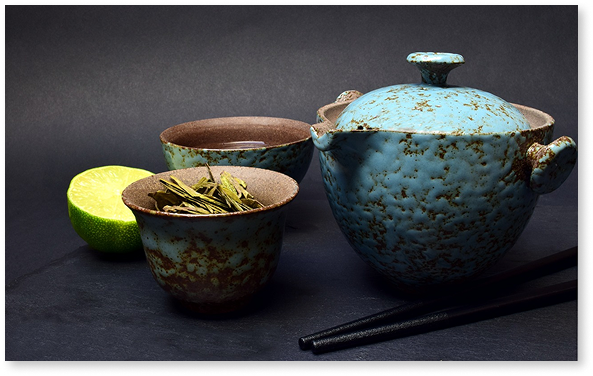
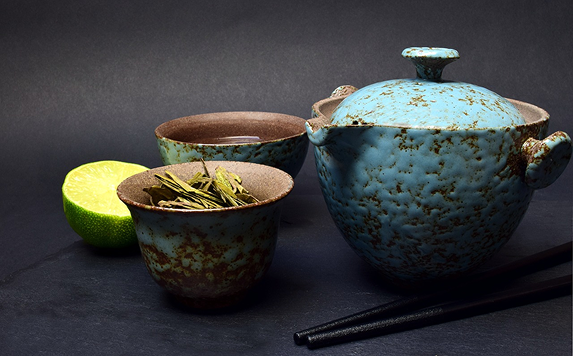
working on get in touch

Changed region(s): [[0.0, 0.0, 1.0, 1.0], [0.4747, 0.618, 0.5044, 0.6798]]

diff --git a/ceramic_soul/css/styles.css b/ceramic_soul/css/styles.css
@@ -13,7 +13,7 @@ a {
   color: initial;
 }
 
-button {
+button, .outlined-button {
   background: white;
   color: black;
   font-size: 20px;
@@ -38,9 +38,42 @@ button:active {
   border: 1px solid #00000088;
 }
 
+.oulined-button:hover{
+  color: var(--ceramic-color);
+  border-color: var(--ceramic-color);
+}
+
+
+label{
+  color: var(--dark-color);
+  font-size: calc(14rem/16);
+  font-weight: 400;
+}
+
+input[type="text"],input[type="email"], textarea{
+  border-radius: calc(2rem/16);
+  width: calc(300rem/16);
+  height: calc(48rem/16);
+  border: calc(1rem/16) solid var(--dark-color);
+  padding-bottom: .5rem;
+}
+
+textarea{
+  height: 8rem;
+}
+
+input:disabled{
+  border: none;
+}
+
+input:invalid{
+  border: calc(1rem/16) solid var(--error-color);
+}
+
+
 .container{
   margin: 0 auto;
-  max-width: 70rem;
+  max-width: 90rem;
   width: 100%;
 }
 
@@ -48,6 +81,7 @@ body {
   display: grid;
   grid-template-columns: 1fr;
   grid-template-rows: 1fr;
+  background-color: var(--bg-color);
 }
 
 /* #endregion */
@@ -257,7 +291,59 @@ main .create-or-buy span {
 
 /* #region Get in Touch */
 
-main .get-in-touch
+main .get-in-touch{
+  display: grid;
+  grid-template-rows: 1fr;
+  grid-template-columns: 1fr 1fr;
+  width: 100%;
+}
+
+main .get-in-touch h2{
+  grid-column: span 3;
+}
+
+main .get-in-touch>figure{
+  grid-column: 1/2;
+  grid-row: 2/3;
+  background: url(../src/images/tea.png) center/cover no-repeat;
+  height: 356px;
+  margin-right: 150px;
+}
+
+main .get-in-touch form{
+  grid-column: 2/3;
+  grid-row: 2/3;
+}
+
+main .get-in-touch .form-list{
+  display: flex;
+  flex-direction: column;
+  row-gap: 1.25rem;
+}
+
+main .form-list label{
+  display: block;
+  line-height: calc(28rem/16);
+}
+
+main .form-list .terms-label{
+  display: initial;
+}
+
+main .form-list .name-and-email{
+  display: flex;
+  flex-wrap: wrap;
+  column-gap: 3rem;
+  row-gap: 1.25rem;
+}
+
+main .form-list button{
+  padding: calc(12rem/16) calc(55rem/16);
+}
+
+main .form-list > figure{
+
+}
 
 /* #endregion */
 
@@ -334,24 +420,23 @@ footer {
     padding: calc(60rem/16) 2em;
   }
 
-  main .our-store,
-  main .our-workshop {
-    width: 100%;
-  }
 
 
   main .create-or-buy .our-workshop p {
     margin-right: 108px;
   }
 
+main .get-in-touch{
+  column-gap: 2.5rem;
+}
+
+main .get-in-touch figure{
+  width: 100%;
+}
   
   /* #endregion */
 
 }
-
-
-
-
 
 
 

diff --git a/ceramic_soul/index.html b/ceramic_soul/index.html
@@ -87,15 +87,34 @@
             method="get"
             name="get_in_touch_form"
           >
-            <label for="name"></label>
-            <input type="text" name="name" id="name" />
-            <label for="email"></label>
-            <input type="email" name="email" id="email" />
-            <label for="question"></label>
-            <textarea name="question" id="question"></textarea>
-            <input type="checkbox" name="terms" id="terms" />
-            <label for="terms">I agree with the <span>terms</span></label>
-            <button class="submit" type="submit">Send request</button>
+            <ul class="form-list">
+              <li class="name-and-email">
+                <div class="labeled-name">
+                  <label for="name">Name</label>
+                  <input type="text" name="name" id="name" required />
+                </div>
+                <div class="labeled-email">
+                  <label for="email">Email</label>
+                  <input type="email" name="email" id="email" required />
+                </div>
+              </li>
+              <li>
+                <label for="question">Your question</label>
+                <textarea name="question" id="question" required></textarea>
+              </li>
+              <li>
+                <input type="checkbox" name="terms" id="terms" required />
+                <label for="terms" class="terms-label"
+                  >I agree with the <a class="terms-link">terms</a></label
+                >
+              </li>
+              <li>
+                <button class="submit outlined-button" type="submit">
+                  Send request
+                </button>
+              </li>
+            </ul>
+            <figure></figure>
           </form>
         </section>
         <section class="checkout">

diff --git a/ceramic_soul/css/variables.css b/ceramic_soul/css/variables.css
@@ -1,6 +1,10 @@
 :root {
   /* example */
   --color: #ffffff;
+  --bg-color: #fafafa;
+  --dark-color: #232323;
+  --error-color: #DB0C35;
+  --ceramic-color: #C69978;
   --px: 1em;
   --font-size: calc(0.5em + 1vw);
 }
